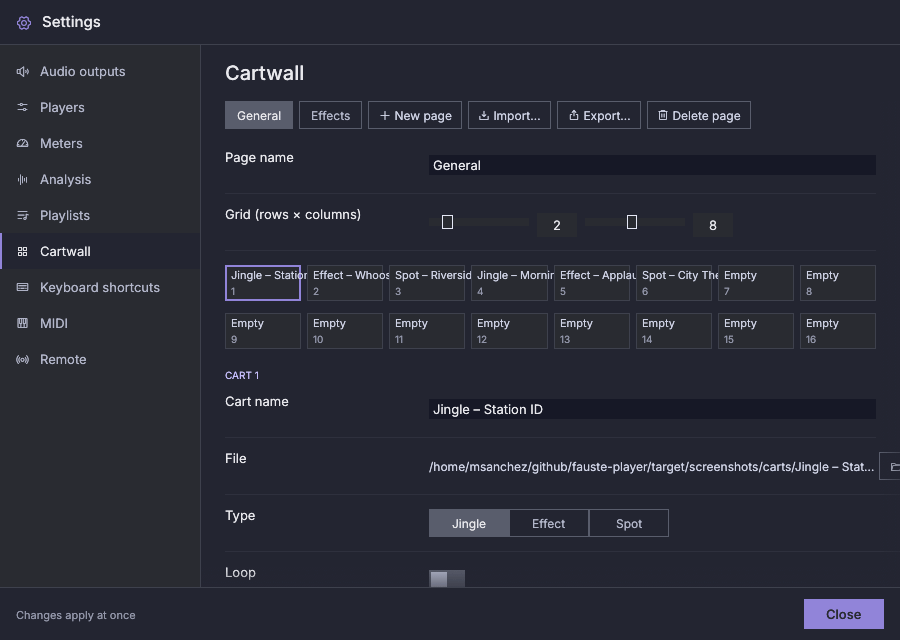
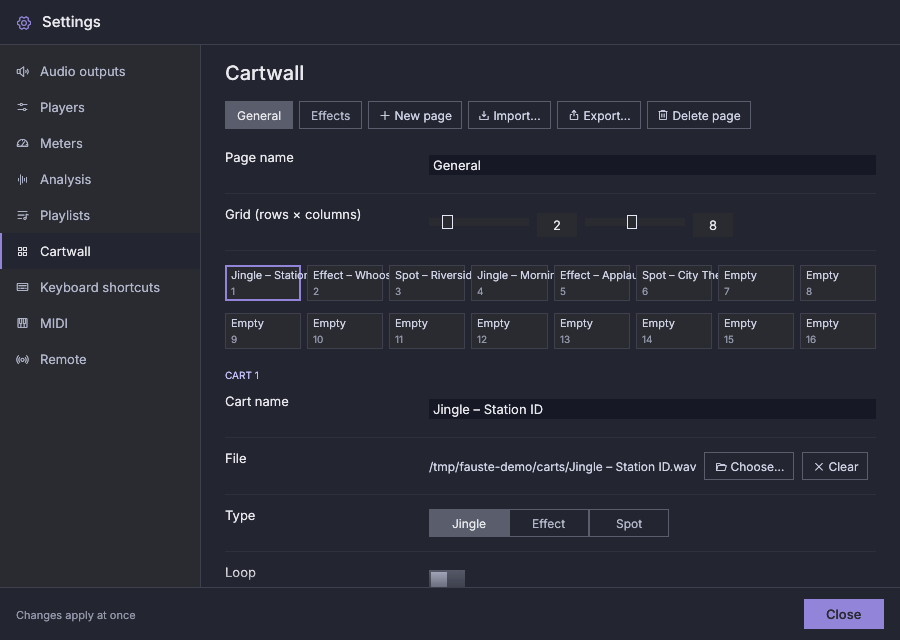
fix(docs): keep personal paths out of the guide screenshots
Settings > Cartwall shows the file of the selected cart, and the songs
lived under the repository, so the guide image carried the maintainer's
home path. The script now reaches the songs through a short neutral link,
/tmp/fauste-demo (SHOTS_MEDIA), that points at target/screenshots and is
removed on exit; the app keeps the path as given, so no screenshot can
show a home folder. It refuses a link under a home folder.

Also: alt text that says what the Players and Keyboard shortcuts
sections show, and a note on the free display check.

Changed region(s): [[0.4978, 0.7188, 1.0, 0.75]]

diff --git a/CLAUDE.md b/CLAUDE.md
@@ -200,7 +200,9 @@ once to sRGB constants in `crates/fp-app/src/ui/theme.rs`.
   free display, checks in the log that the null backend is in use before
   anything plays, builds the scene through the remote API and captures
   with ImageMagick. Needs `xvfb`, `xdotool`, ImageMagick, `ffmpeg`,
-  `python3` and `curl`; the songs are kept in `target/screenshots`.
+  `python3` and `curl`; the songs are kept in `target/screenshots` and
+  reached through the link `/tmp/fauste-demo` (`SHOTS_MEDIA`), so no
+  screenshot shows a home path.
   `--hold` keeps the app running for a look (`DISPLAY=:<n> import -window
   <id> shot.png`). The crops follow the default 1920×1080 layout: after a
   layout change, check every PNG and adjust the positions in the script.

diff --git a/docs/user/settings.md b/docs/user/settings.md
@@ -69,7 +69,7 @@ the device is reopened when it comes back (see
 
 ## Players
 
-![Settings, Players](../images/guide/settings-players.png)
+![Settings, Players: number of players, default mode, fade time, automatic mix, cue-in and cue-out, end-of-track warning and language](../images/guide/settings-players.png)
 
 | Setting | Default | Meaning |
 |---|---|---|
@@ -166,7 +166,7 @@ Pages, grid size, the cart editor, and cart page import and export. See
 
 ## Keyboard shortcuts
 
-![Settings, Keyboard shortcuts](../images/guide/settings-shortcuts.png)
+![Settings, Keyboard shortcuts: each player action with its key, and Unbind beside the bound ones](../images/guide/settings-shortcuts.png)
 
 See [Keyboard](keyboard.md).
 
